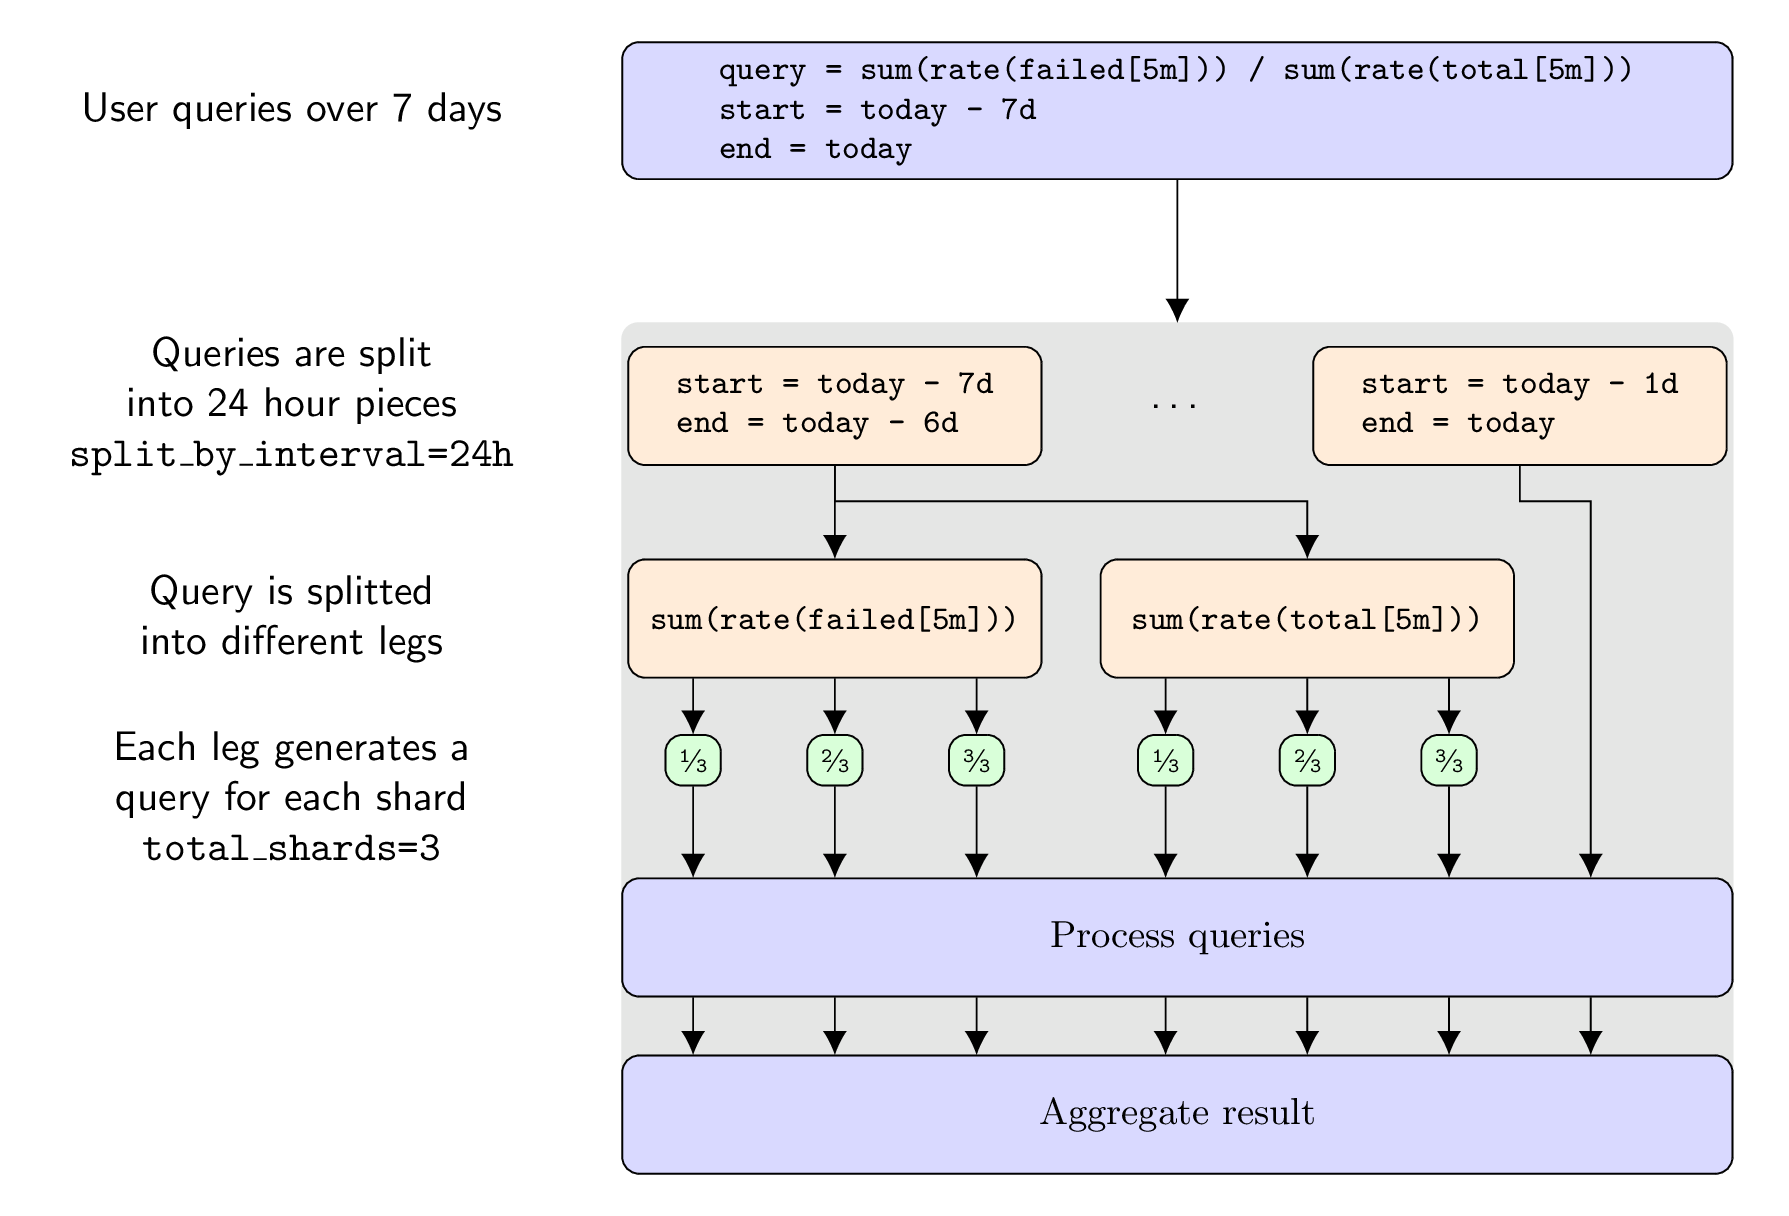
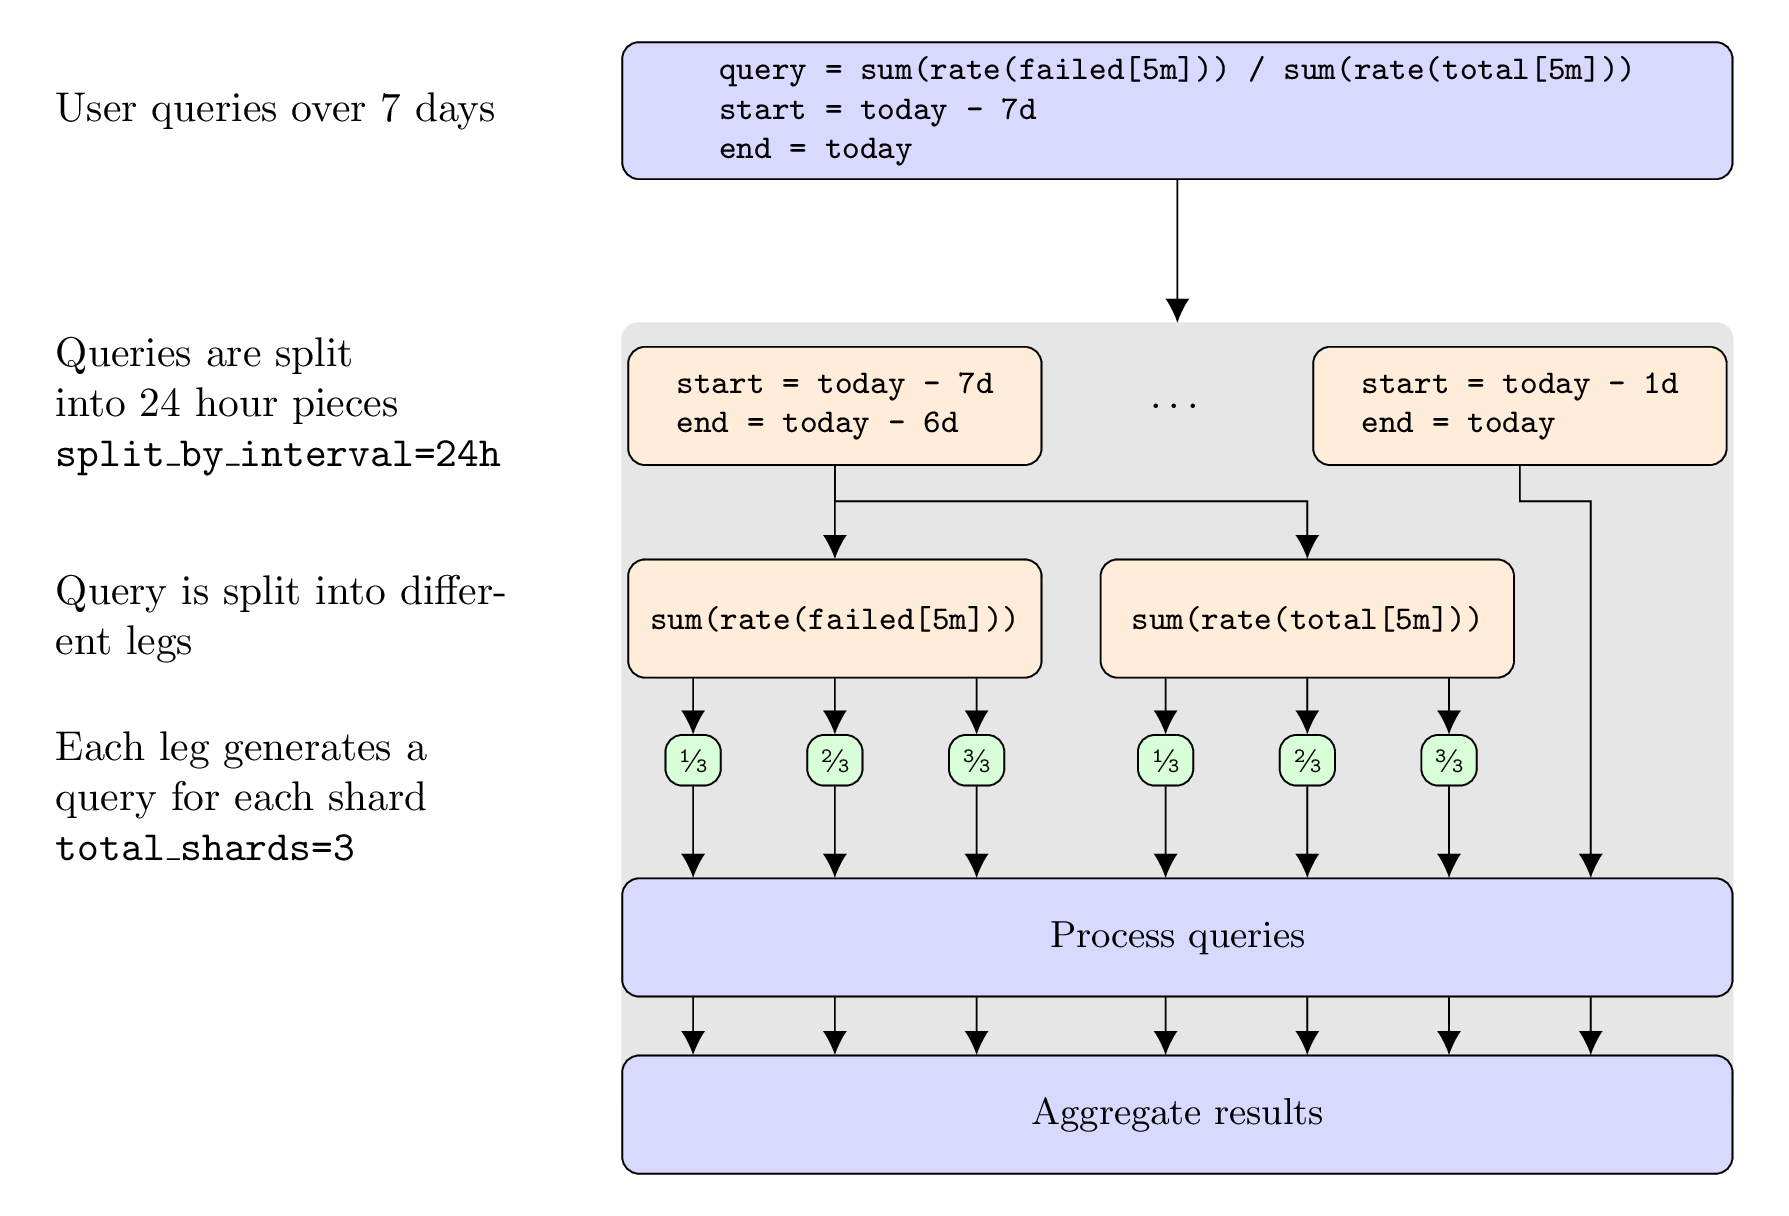
Apply suggestions from code review

diff --git a/docs/sources/images/query-sharding.tex b/docs/sources/images/query-sharding.tex
@@ -43,10 +43,10 @@
     \node (shardingLeg2M)   [shard, below of=shardingLeg2]  {\sfrac{2}{3}};
     \node (shardingLeg2L)   [shard, left of=shardingLeg2M]  {\sfrac{1}{3}};
     \node (shardingLeg2R)   [shard, right of=shardingLeg2M] {\sfrac{3}{3}};
-    \node (legStory)        [story, below of=timesplitStory, yshift=-0.3cm]{Query is splitted into different legs};
+    \node (legStory)        [story, below of=timesplitStory, yshift=-0.3cm]{Query is split into different legs};
     \node (shardingStory)   [story, below of=legStory]      {Each leg generates a query for each shard \texttt{total\_shards=3}};
     \node (process)         [elemx,below of=timesplitdots,yshift=-3cm] {Process queries};
-    \node (aggregate)       [elemx,below of=process] {Aggregate result};
+    \node (aggregate)       [elemx,below of=process] {Aggregate results};
 
     % Gray box around query process
     \begin{pgfonlayer}{background}

diff --git a/docs/sources/guides/query-sharding.md b/docs/sources/guides/query-sharding.md
@@ -106,9 +106,9 @@ the querier component:
 ## Operational considerations
 
 Splitting a single query into sharded queries increases the quantity of queries
-that must be processed. Parallelization decreases the query processing time
-latency, but increases the load on querier components and their underlying data
-stores (ingesters for recent data and store-gateway for historic data). The
+that must be processed. Parallelization decreases the query processing time,
+but increases the load on querier components and their underlying data stores
+(ingesters for recent data and store-gateway for historic data). The
 caching layer for chunks and indexes will also experience an increased load.
 
 This increased parallel processing also requires to multiply the previously set
@@ -140,7 +140,7 @@ sharded_queries=16 query="sum(rate(prometheus_engine_queries[5m]))"
 ```
 
 When `sharded_queries` is a multiple of the configured shard count, query
-sharding is operational and the query has only a multiple legs (assuming time
+sharding is operational and the query has multiple legs (assuming time
 splitting is disabled). The following log line shows a query with two legs and
 with a configured shard count of `16`:
 
@@ -152,7 +152,7 @@ The query-frontend also exposes metrics, which can be useful to understand the
 query workload's parallelism as a whole.
 
 To get the ratio of queries which are shardable:
-queries the following PromQL query can be used. A value of 1.0 would mean all queries are shardable wh:
+The following PromQL query can be used. A value of 1.0 would mean all queries are shardable wh:
 
 ```promql
 sum(rate(cortex_frontend_query_sharding_rewrites_succeeded_total[$__rate_interval])) /
